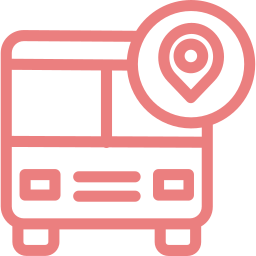
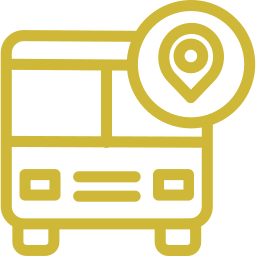
updated services page with content

diff --git a/css/skr-custom.css b/css/skr-custom.css
@@ -221,13 +221,13 @@ i.icon-youtube-play{
 .service-box{
 	background-color: #fdfdfd;
 	box-shadow: 0 1px 15px -4px rgba(0,0,0,0.3);
-	height: 210px;
+	height: 245px;
 }
 .service-box:hover{
-	box-shadow: inset 0 0 0 1px rgba(236,128,128,.6);
-	transition: all 0.6s linear
-
+	box-shadow: inset 0 0 0 1px rgba(207,183,55,.7);
+	transition: all 0.6s linear;
 }
+
 img.img-responsive.service-img {
     width: 70px;
     margin-bottom: 20px;

diff --git a/includes/header.php b/includes/header.php
@@ -92,68 +92,68 @@
                         <a href="#" class="open_close" id="close_in"><i class="icon_set_1_icon-77"></i></a>
                         <ul>
                             <li class="submenu">
-                                <a href="index.html" class="show-submenu">Home</a>
+                                <a href="index.php" class="show-submenu">Home</a>
                             </li>
                             <li class="submenu">
-                                <a href="about.html" class="show-submenu">About Us<i class="icon-down-open-mini"></i></a>
+                                <a href="about.php" class="show-submenu">About Us<i class="icon-down-open-mini"></i></a>
                                 <ul>
-                                    <li><a href="all_tours_list.html">Who We Are?</a></li>
-                                    <li><a href="all_tours_grid.html">Our Vision & Mission</a></li>
-                                    <li><a href="team.html">Our Team</a></li>
+                                    <li><a href="javascript:void(0);">Who We Are?</a></li>
+                                    <li><a href="javascript:void(0);">Our Vision & Mission</a></li>
+                                    <li><a href="team.php">Our Team</a></li>
                                 </ul>
                             </li>
                             <li class="submenu">
-                                <a href="javascript:void(0);" class="show-submenu">Services <i class="icon-down-open-mini"></i></a><ul>
-                                    <li><a href="all_hotels_list.html">Hotel Accomodations</a></li>
-                                    <li><a href="all_hotels_grid.html">Visa and Ticketing facilitations</a></li>
-                                    <li><a href="all_hotels_map_listing.html">Religious/Tour Guide/Local Guide</a></li>
-                                    <li><a href="single_hotel.html">Food</a></li>
-                                    <li><a href="single_hotel_datepicker_adv.html">Transport Service</a></li>
-                                    <li><a href="single_hotel_datepicker_v2.html">Medical First Aid </a></li>
+                                <a href="planner/services.php" class="show-submenu">Services <i class="icon-down-open-mini"></i></a><ul>
+                                    <li><a href="javascript:void(0);">Hotel Accomodations</a></li>
+                                    <li><a href="javascript:void(0);">Visa and Ticketing facilitations</a></li>
+                                    <li><a href="javascript:void(0);">Religious/Tour Guide/Local Guide</a></li>
+                                    <li><a href="javascript:void(0);">Food</a></li>
+                                    <li><a href="javascript:void(0);">Transport Service</a></li>
+                                    <li><a href="javascript:void(0);">Medical First Aid </a></li>
                                 </ul>
                             </li>
                             <li class="submenu">
                                 <a href="javascript:void(0);" class="show-submenu">Destinations <i class="icon-down-open-mini"></i></a>
                                 <ul>
-                                    <li class="third-level"><a href="javascript:void(0);">Iraq</a>
+                                    <li class="third-level"><a href="/planner/iraq.html">Iraq</a>
                                         <ul>
-                                            <li><a href="single_tour_fixed_sidebar.html">Karbala</a></li>
-                                            <li><a href="single_tour_fixed_sidebar.html">Najaf</a></li>
-                                            <li><a href="single_tour_with_gallery_fixed_sidebar.html">Kazmain<</a></li>
+                                            <li><a href="javascript:void(0);">Karbala</a></li>
+                                            <li><a href="javascript:void(0);">Najaf</a></li>
+                                            <li><a href="javascript:void(0);">Kazmain</a></li>
                                         </ul>
                                     </li>
 
-                                    <li class="third-level"><a href="javascript:void(0);">Iran</a>
+                                    <li class="third-level"><a href="/planner/iran.html">Iran</a>
                                         <ul>
-                                            <li><a href="single_tour_fixed_sidebar.html">Mashhad</a></li>
-                                            <li><a href="single_tour_fixed_sidebar.html">Qom</a></li>
+                                            <li><a href="javascript:void(0);">Mashhad</a></li>
+                                            <li><a href="javascript:void(0);">Qom</a></li>
                                         </ul>
                                     </li>
 
-                                    <li class="third-level"><a href="javascript:void(0);">Syria</a>
+                                    <li class="third-level"><a href="/planner/syria.html">Syria</a>
                                         <ul>
-                                            <li><a href="single_tour_fixed_sidebar.html">Damascus</a></li>
+                                            <li><a href="javascript:void(0);">Damascus</a></li>
                                         </ul>
                                     </li>
-                                    <li class="third-level"><a href="javascript:void(0);">Kingdom of Saudi Arabia</a>
+                                    <li class="third-level"><a href="/planner/ksa.html">Kingdom of Saudi Arabia</a>
                                         <ul>
-                                            <li><a href="single_tour_fixed_sidebar.html">Makkah</a></li>
-                                            <li><a href="single_tour_fixed_sidebar.html">Madina</a></li>
+                                            <li><a href="javascript:void(0);">Makkah</a></li>
+                                            <li><a href="javascript:void(0);">Madina</a></li>
                                         </ul>
                                     </li>
                                 </ul>
                             </li>
                             <li class="submenu">
-                                <a href="hotels.html" class="show-submenu">Hotels</a>
+                                <a href="hotels.php" class="show-submenu">Hotels</a>
                             </li>
                             <li class="submenu">
                                 <a href="javascript:void(0);" class="show-submenu">Trip Planner</a>
                             </li>
                             <li class="submenu">
-                                <a href="partners.html" class="show-submenu">Partners</a>
+                                <a href="javascript:void(0);" class="show-submenu">Partners</a>
                             </li>
                             <li class="submenu">
-                                <a href="contact.html" class="show-submenu">Contact Us</a>
+                                <a href="contact.php" class="show-submenu">Contact Us</a>
                             </li>
                         </ul>
                     </div><!-- End main-menu -->

diff --git a/services.php b/services.php
@@ -79,7 +79,7 @@
         <h2>Our<span> &nbsp; Services</span></h2>
             </div>
             <div>
-                <p class="text-center">Ad cum movet fierent assueverit, mei stet legere ne. Mel at vide soluta, ut <a href="#">utamur antiopam inciderint</a> sed. Ut iriure perpetua voluptaria has, vim postea denique in, mollis pertinax elaboraret sed in. Per no vidit timeam, quis omittam sed at. Lorem ipsum dolor sit amet, consectetur adipisicing elit. Esse neque placeat earum dolore beatae incidunt autem culpa est laboriosam, maxime mollitia fugiat ad, quia! Sequi!</p>
+                <p class="text-center">Shirkat ul Ras is one of the leading and trusted names in providing the services for zaireen. Our services are extended to Iraq, Iran, Syria and KSA.</p>
             </div>
       <hr class="mt-5 mb-5">
 
@@ -89,18 +89,27 @@
                         <div class="service-box p-4">
                             <img class="img-responsive service-img" src="img/servicepage/hotel-service.png">
                             <h4>Hotel Accomodations</h4>
+                            <p class="text-center">
+                                Our team will help you to find the best hotels according to your budget
+                            </p>
                         </div>
                     </div>
                     <div class="col-md-4">
                         <div class="service-box p-4">
                             <img class="img-responsive service-img" src="img/servicepage/visa-ticketing-service.png">
                             <h4>Visa and Ticketing facilitations</h4>
+                            <p class="text-center">
+                                We will assist you in visa and ticket so you can start your spiritual journey.
+                            </p>
                         </div>
                     </div>
                     <div class="col-md-4">
                         <div class="service-box p-4">
                              <img class="img-responsive service-img" src="img/servicepage/religious-tour-guide-service.png">
                             <h4>Religious/Tour/Local Guide</h4>
+                            <p class="text-center">
+                               We will arrange the guide according to your needs. He will be guiding you in all aspects of travel.
+                            </p>
                         </div>
                         
                     </div>
@@ -110,6 +119,9 @@
                         <div class="service-box p-4">
                             <img class="img-responsive service-img" src="img/servicepage/food-service.png">
                             <h4>Food</h4>
+                            <p class="text-center">
+                                Our chefs are expert in cooking all sort of cuisines. You will feel like having home-made food on ziarat.
+                            </p>
                         </div>
 
                     </div>
@@ -117,12 +129,18 @@
                         <div class="service-box p-4">
                             <img class="img-responsive service-img" src="img/servicepage/transportation-service.png">
                             <h4>Transport Service</h4>
+                            <p class="text-center">
+                                It doesn’t matter how many pax you are, we will arrange for you the best and comfortable transport.
+                            </p>
                         </div>
                     </div>
                     <div class="col-md-4">
                         <div class="service-box p-4">
                             <img class="img-responsive service-img" src="img/servicepage/medical-first-aid-service.png">
                             <h4>Medical First Aid</h4>
+                            <p class="text-center">
+                                In case of any emergency, we have medical first aid team to handle the situations.
+                            </p>
                         </div>
                     </div>
                 </div>

diff --git a/Footer.php b/Footer.php
@@ -19,18 +19,17 @@
             <div class="col-md-3">
                 <h3>Quick Links</h3>
                 <ul>
-                    <li><a href="#">About us</a></li>
-                    <li><a href="#">Services</a></li>
-                    <li><a href="#">Hotels</a></li>
+                    <li><a href="services.php">Services</a></li>
+                    <li><a href="hotels.php">Hotels</a></li>
                     <li><a href="#">Trip Planner</a></li>
                     <li><a href="#">Partners</a></li>
                 </ul>
                 <h3>Destinations</h3>
                 <ul>
-                    <li><a href="#">Iraq</a></li>
-                    <li><a href="#">Iran</a></li>
-                    <li><a href="#">Syria</a></li>
-                    <li><a href="#">Kingdom Of Saudi Arabia</a></li>
+                    <li><a href="iraq.html">Iraq</a></li>
+                    <li><a href="iran.html">Iran</a></li>
+                    <li><a href="syria.html">Syria</a></li>
+                    <li><a href="ksa.html">Kingdom Of Saudi Arabia</a></li>
                 </ul>
             </div>
             <div class="col-md-3">

diff --git a/hotel.php b/hotel.php
@@ -395,16 +395,17 @@ if(empty($_GET['Hotel_Id'])) {
             <div class="col-md-3">
                 <h3>Quick Links</h3>
                 <ul>
-                    <li><a href="#">About us</a></li>
+                	<li><a href="#">Hotels</a></li>
+                	<li><a href="#">Services</a></li>
                     <li><a href="#">Trip Planner</a></li>
                     <li><a href="#">Partners</a></li>
                 </ul>
                 <h3>Destinations</h3>
                 <ul>
-                    <li><a href="#">Iraq</a></li>
-                    <li><a href="#">Iran</a></li>
-                    <li><a href="#">Syria</a></li>
-                    <li><a href="#">Kingdom Of Saudi Arabia</a></li>
+                    <li><a href="/planner/iraq.html">Iraq</a></li>
+                    <li><a href="/planner/iran.html">Iran</a></li>
+                    <li><a href="/planner/syria.html">Syria</a></li>
+                    <li><a href="/planner/ksa.html">Kingdom Of Saudi Arabia</a></li>
                 </ul>
             </div>
             <div class="col-md-3">
